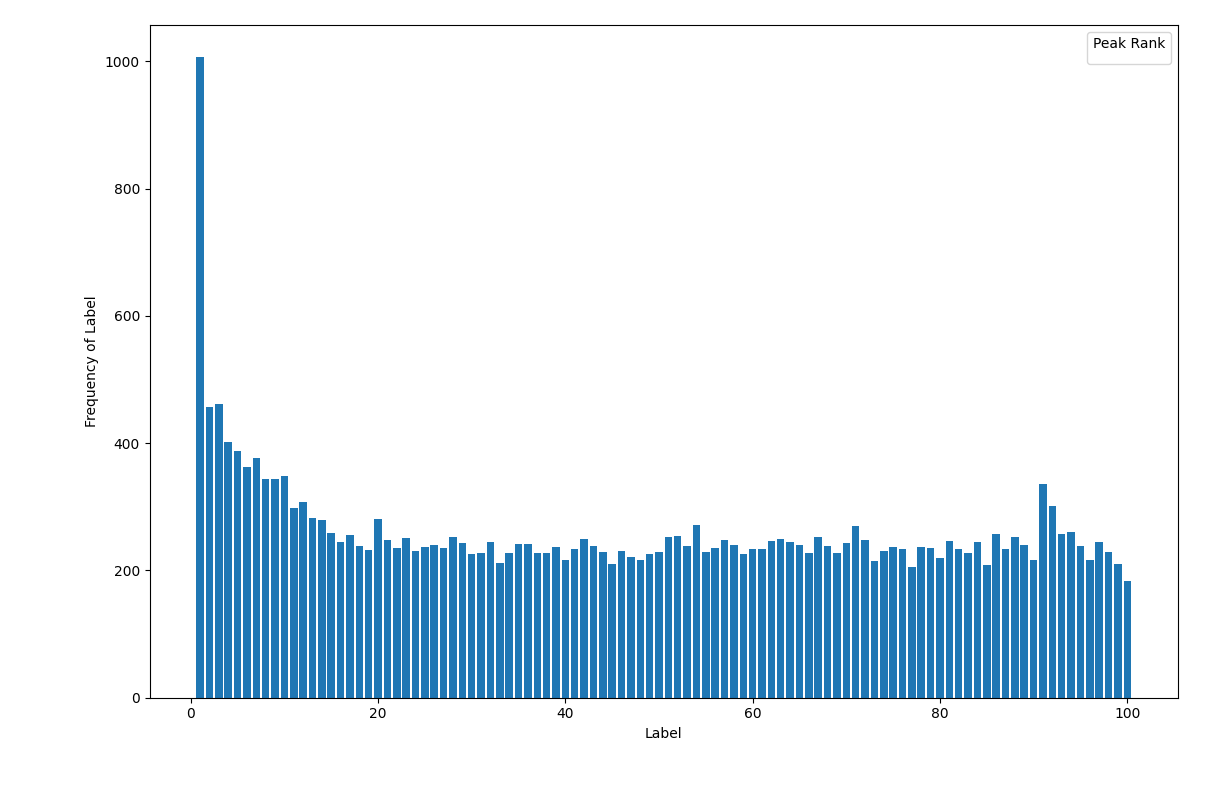
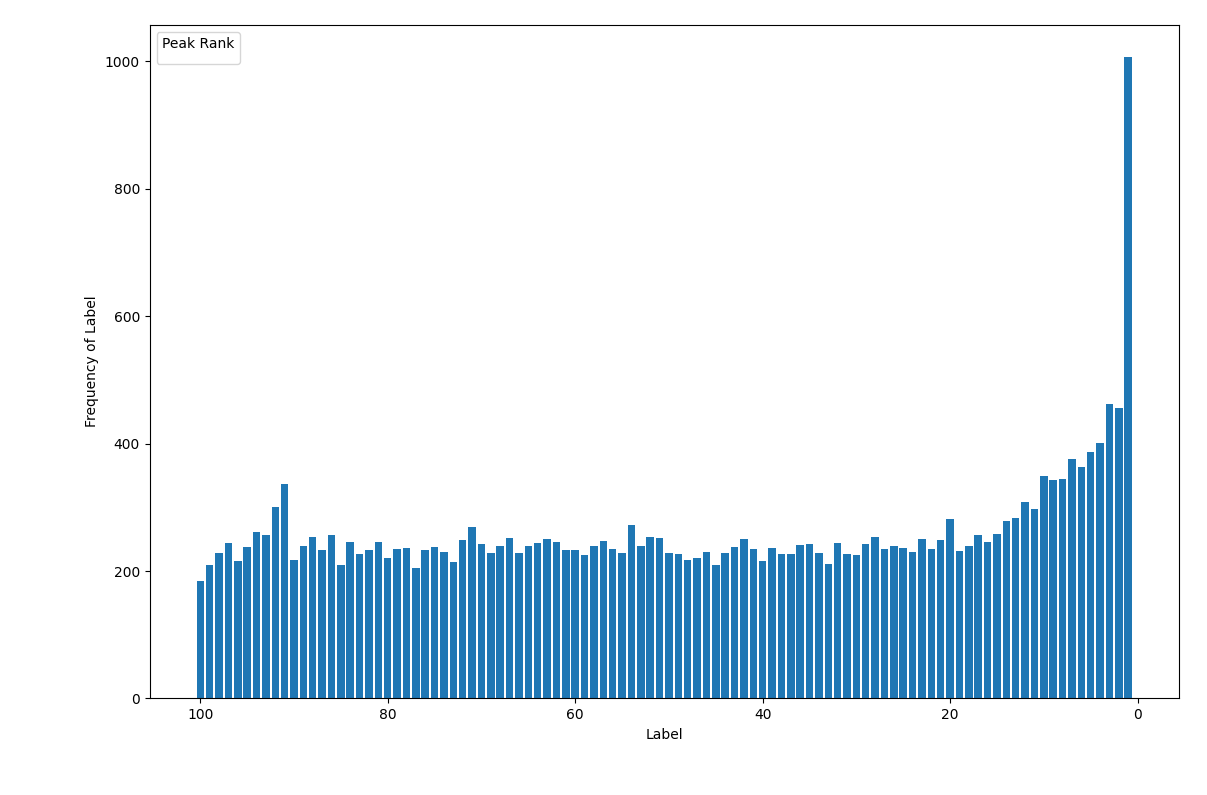
Changed the direction of the rank graphs

diff --git a/labelAnalysis.py b/labelAnalysis.py
@@ -2,12 +2,13 @@ import pandas as pd
 import numpy as np
 import matplotlib.pyplot as plt
 
-def graphLabels(label: pd.DataFrame, title: str) -> None:
+def graphLabels(label: pd.DataFrame, title: str, invert=False) -> None:
     """Make a bar chart of the labels to see if it's balanced or not
 
     Args:
         label (pd.DataFrame): the dataframe of labels that you want to graph
         title (str): The title of the graph
+        invert (bool): Should you invert the x axis direction? Default is False
     """
 
     labels, counts = np.unique(label, return_counts=True)
@@ -17,6 +18,8 @@ def graphLabels(label: pd.DataFrame, title: str) -> None:
     plt.legend(title=title)
     plt.xlabel("Label")
     plt.ylabel("Frequency of Label")
+    if invert:
+        plt.gca().invert_xaxis()
     plt.tight_layout()
     plt.show()
 
@@ -27,9 +30,9 @@ def main():
     rankReduced = pd.read_csv("pruned datasets/ranks-reduced.csv")
 
     graphLabels(popularity, "Popularity")
-    graphLabels(rank, "Peak Rank")
+    graphLabels(rank, "Peak Rank", True)
     graphLabels(popularityReduced, "Popularity Reduced")
-    graphLabels(rankReduced, "Peak Rank Reduced")
+    graphLabels(rankReduced, "Peak Rank Reduced", True)
 
 if __name__ == "__main__":
     main()
